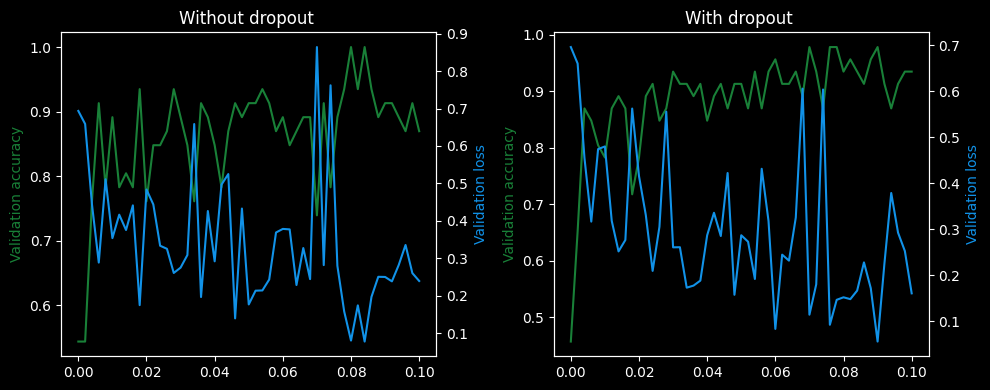
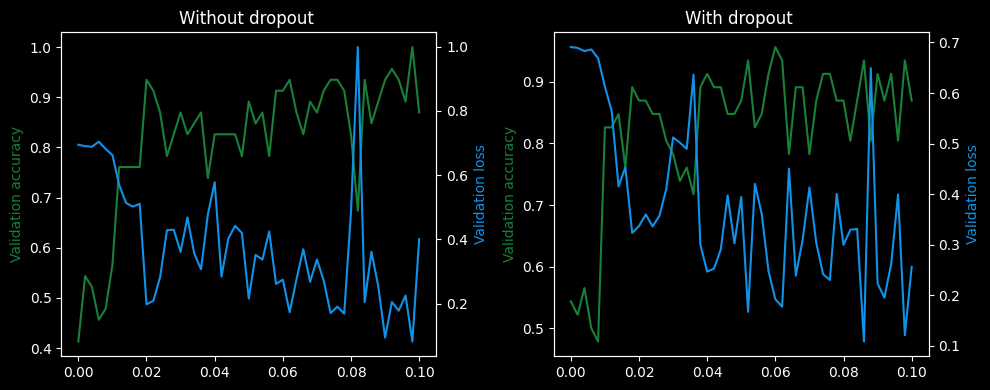
Edited my ssection (Hubert P).

diff --git a/index.html b/index.html
@@ -769,11 +769,11 @@
                             Dense(units3, activation='sigmoid')
                         ])
                     def compile_model(model, learning_rate, momentum):
-                        model.compile(optimizer=tf.keras.optimizers.SGD(learning_rate, momentum), loss='binary_crossentropy', metrics=['accuracy'])
+                        model.compile(optimizer=tf.keras.optimizers.SGD(learning_rate=learning_rate, momentum=momentum), loss='binary_crossentropy', metrics=['accuracy'])
                     def fit_model(model, X_train, y_train, batch_size, epochs):
                         model.fit(X_train, y_train, batch_size, epochs, verbose=0) #validation_data=(X_val, y_val)
                     def plot_models(subplot, X_train, y_train, change, max, multiplier=1, min=0, model_type="Without dropout", title=""):
-                        step = int((max-min)/20)     # Here is the magic place where we set how long program will work
+                        step = int((max-min)/50)     # Here is the magic place where we set how long program will work
                         if(step<1): step = 1
                         batch_size = 32
                         epochs = 100
@@ -787,8 +787,8 @@
                         for i in range(min, max+1, step):
                             if "batch_size" in change: batch_size = multiplier*i
                             if "epoch" in change: epochs = multiplier*i
-                            if "learning_rate" in change: compile_model(model, multiplier*i, learning_rate)
-                            if "momentum" in change: compile_model(model, i, multiplier*momentum)
+                            if "learning_rate" in change: compile_model(model, multiplier*i, momentum)
+                            if "momentum" in change: compile_model(model, learning_rate, multiplier*momentum)
                             X, Xv, y, yv = train_test_split(X_train, y_train, test_size=(.15/.85))
                             fit_model(model, X, y, batch_size=batch_size, epochs=epochs)
                             print("Done "+str(((subplot[2]-2)/(subplot[0]*subplot[1])+(i/max+1)/(subplot[0]*subplot[1]))*100)
